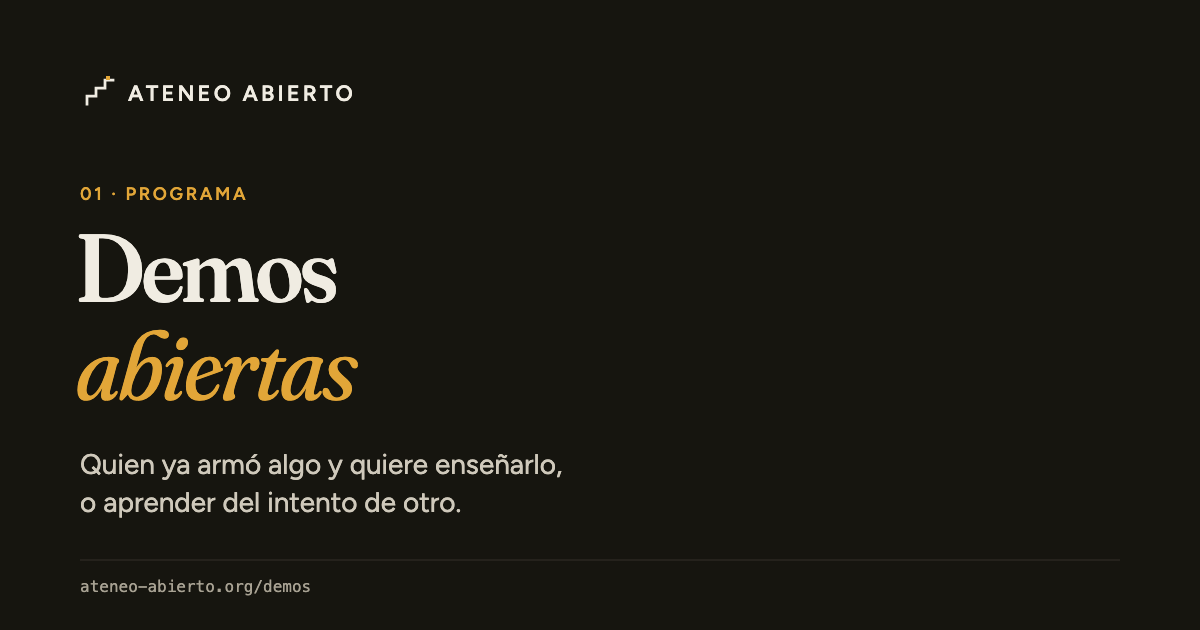
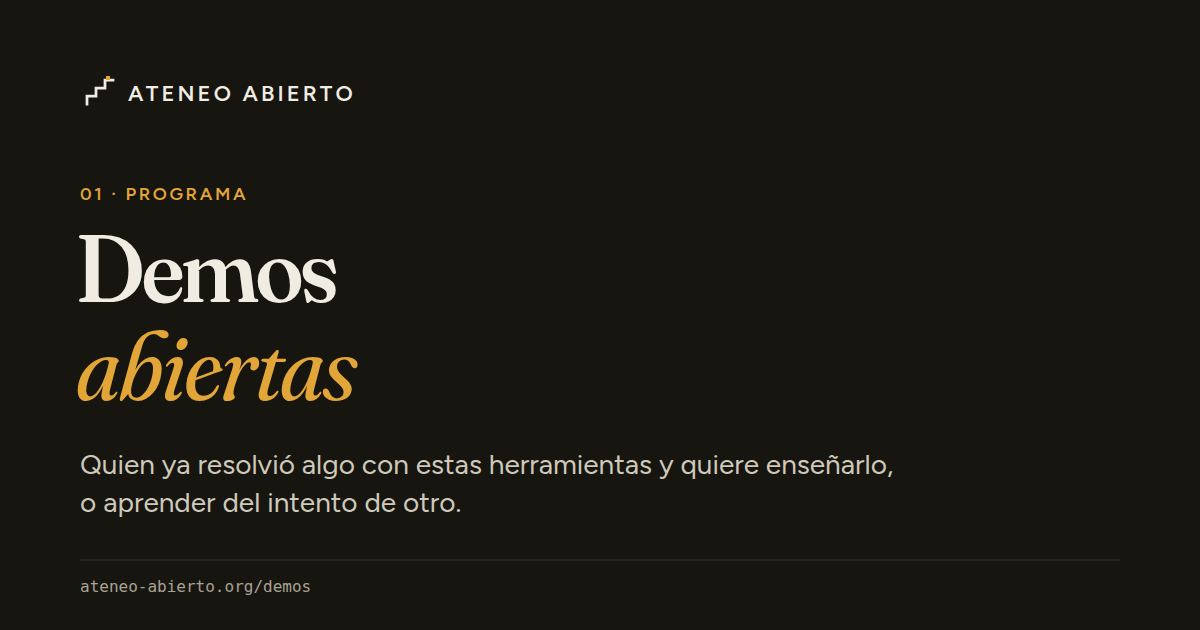
fix(doors): say demos are for people who solved something, not built it
The demos door said "quien ya armó algo" while its own body is about
showing a tool that has been useful, and the partner pages say "quien ya
usa estas herramientas". The two demos link-preview cards are rebuilt from
the new line.

diff --git a/src/content.ts b/src/content.ts
@@ -812,7 +812,7 @@ export const copy: Record<Locale, PageCopy> = {
           title: 'Demos abiertas',
           body: 'Entre 2 y 5 minutos: muestras la herramienta que te ha sido útil en tu trabajo, qué salió mal antes de que funcionara, y cómo llegaste ahí.',
           whoLabel: 'Para quién',
-          who: 'Quien ya armó algo y quiere enseñarlo, o aprender del intento de otro.',
+          who: 'Quien ya resolvió algo con estas herramientas y quiere enseñarlo, o aprender del intento de otro.',
           details: {
             goal: 'Aprender de lo que otros ya están haciendo, y mostrar lo tuyo.',
             activities: [
@@ -884,7 +884,7 @@ export const copy: Record<Locale, PageCopy> = {
     deepLinks: {
       demos: {
         headline: ['Demos', 'abiertas'],
-        who: ['Quien ya armó algo y quiere enseñarlo,', 'o aprender del intento de otro.']
+        who: ['Quien ya resolvió algo con estas herramientas y quiere enseñarlo,', 'o aprender del intento de otro.']
       },
       talleres: {
         headline: ['Talleres'],
@@ -1336,7 +1336,7 @@ export const copy: Record<Locale, PageCopy> = {
           title: 'Open Demos',
           body: 'Two to five minutes: you show the tool that has been useful in your work, what went wrong before it worked, and how you got there.',
           whoLabel: 'Who it’s for',
-          who: 'Anyone who has built something and wants to show it, or to learn from someone else\u2019s attempt.',
+          who: 'Anyone who has solved something with these tools and wants to show it, or to learn from someone else\u2019s attempt.',
           details: {
             goal: 'Learn from what others are already doing, and show your own.',
             activities: [
@@ -1403,7 +1403,7 @@ export const copy: Record<Locale, PageCopy> = {
     deepLinks: {
       demos: {
         headline: ['Open', 'Demos'],
-        who: ['Anyone who has built something and wants to show it,', 'or to learn from someone else\u2019s attempt.']
+        who: ['Anyone who has solved something with these tools and wants to show it,', 'or to learn from someone else\u2019s attempt.']
       },
       talleres: {
         headline: ['Workshops'],
